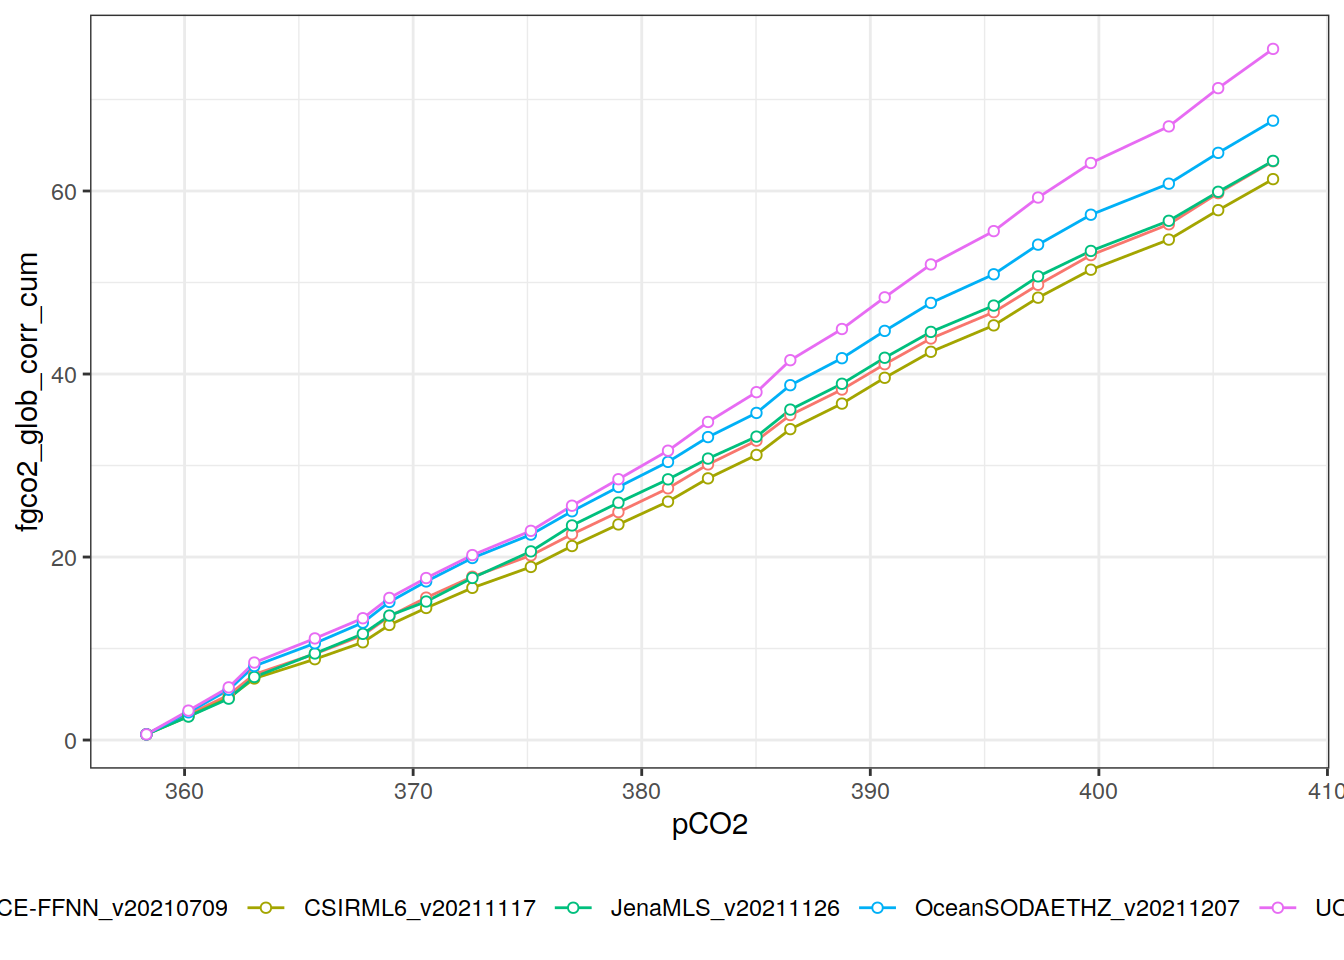
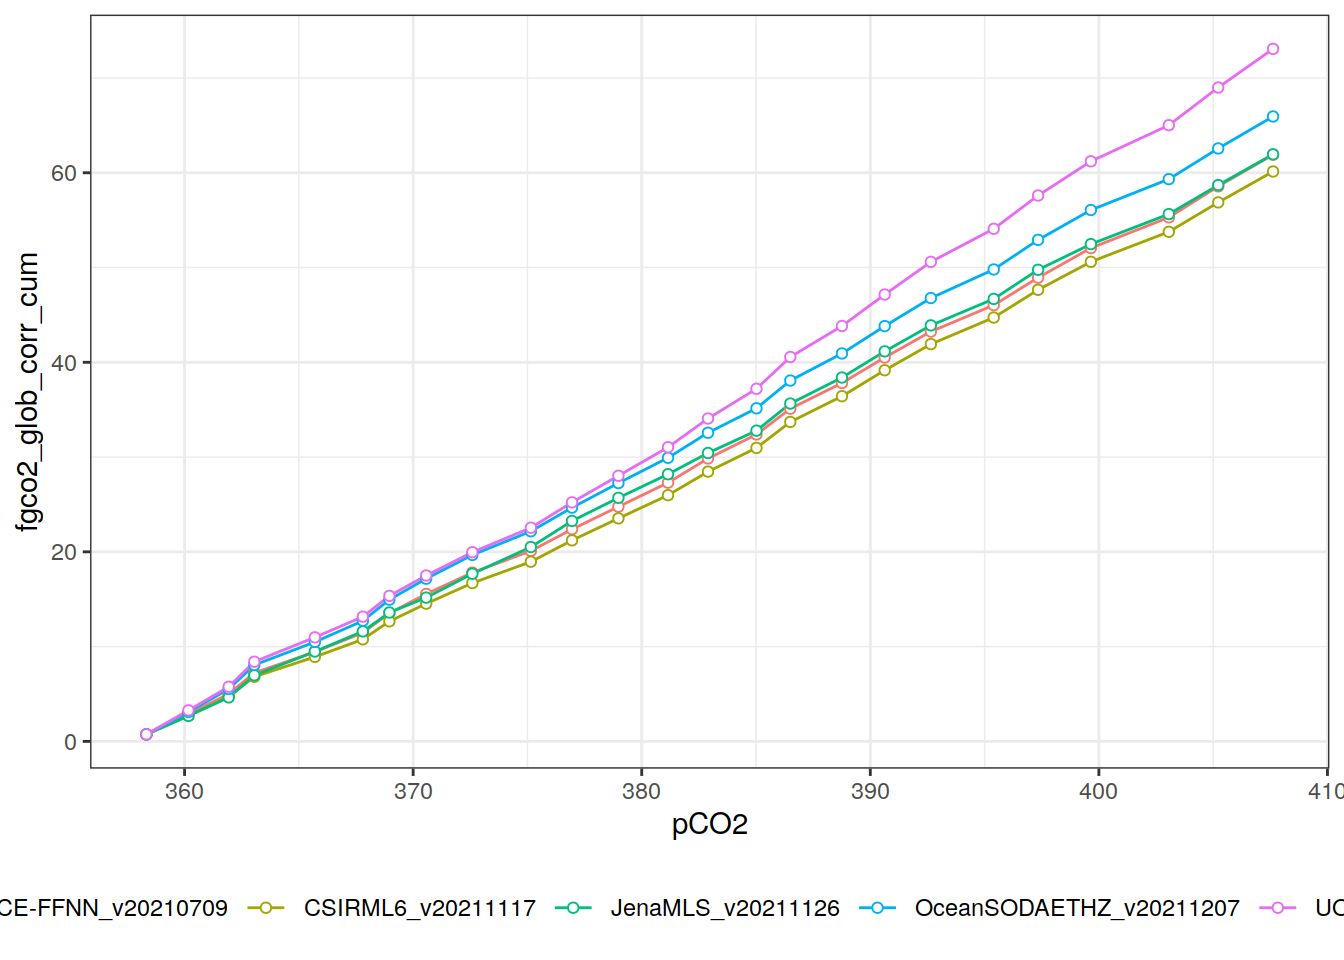
Build site.

diff --git a/docs/results_publication.html b/docs/results_publication.html
@@ -673,16 +673,16 @@ This reproducible <a href="https://rmarkdown.rstudio.com">R Markdown</a> analysi
 <div class="panel panel-default">
 <div class="panel-heading">
 <p class="panel-title">
-<a data-toggle="collapse" data-parent="#workflowr-checks" href="#strongRepositoryversionstrongahrefhttpsgithubcomjensdanielmuelleremlrobsanalysistree2394302264188228ec5f9f6eb82c25fc82671867targetblank2394302a"> <span class="glyphicon glyphicon-ok text-success" aria-hidden="true"></span> <strong>Repository version:</strong> <a href="https://github.com/jens-daniel-mueller/emlr_obs_analysis/tree/2394302264188228ec5f9f6eb82c25fc82671867" target="_blank">2394302</a> </a>
+<a data-toggle="collapse" data-parent="#workflowr-checks" href="#strongRepositoryversionstrongahrefhttpsgithubcomjensdanielmuelleremlrobsanalysistree5420131a3065e77491b46b9e6a64ab83faa2ded4targetblank5420131a"> <span class="glyphicon glyphicon-ok text-success" aria-hidden="true"></span> <strong>Repository version:</strong> <a href="https://github.com/jens-daniel-mueller/emlr_obs_analysis/tree/5420131a3065e77491b46b9e6a64ab83faa2ded4" target="_blank">5420131</a> </a>
 </p>
 </div>
[2 lines of base64/hex data omitted]
 <div class="panel-body">
 <p>
 Great! You are using Git for version control. Tracking code development and connecting the code version to the results is critical for reproducibility.
 </p>
 <p>
-The results in this page were generated with repository version <a href="https://github.com/jens-daniel-mueller/emlr_obs_analysis/tree/2394302264188228ec5f9f6eb82c25fc82671867" target="_blank">2394302</a>. See the <em>Past versions</em> tab to see a history of the changes made to the R Markdown and HTML files.
+The results in this page were generated with repository version <a href="https://github.com/jens-daniel-mueller/emlr_obs_analysis/tree/5420131a3065e77491b46b9e6a64ab83faa2ded4" target="_blank">5420131</a>. See the <em>Past versions</em> tab to see a history of the changes made to the R Markdown and HTML files.
 </p>
 <p>
 Note that you need to be careful to ensure that all relevant files for the analysis have been committed to Git prior to generating the results (you can use <code>wflow_publish</code> or <code>wflow_git_commit</code>). workflowr only checks the R Markdown file, but you know if there are other scripts or data files that it depends on. Below is the status of the Git repository when the results were generated:
@@ -732,6 +732,40 @@ Message
 </tr>
 </thead>
 <tbody>
+<tr>
+<td>
+Rmd
+</td>
+<td>
+<a href="https://github.com/jens-daniel-mueller/emlr_obs_analysis/blob/5420131a3065e77491b46b9e6a64ab83faa2ded4/analysis/results_publication.Rmd" target="_blank">5420131</a>
+</td>
+<td>
+jens-daniel-mueller
+</td>
+<td>
+2022-02-17
+</td>
+<td>
+added Seaflux data
+</td>
+</tr>
+<tr>
+<td>
+html
+</td>
+<td>
+<a href="https://rawcdn.githack.com/jens-daniel-mueller/emlr_obs_analysis/192504c2078f236cf7eb403ff1f21b27900670a0/docs/results_publication.html" target="_blank">192504c</a>
+</td>
+<td>
+jens-daniel-mueller
+</td>
+<td>
+2022-02-17
+</td>
+<td>
+Build site.
+</td>
+</tr>
 <tr>
 <td>
 Rmd
@@ -7857,7 +7891,7 @@ jens-daniel-mueller
 <pre class="r"><code>RECCAP2_fgco2_glob_all_annual_cum_1994 &lt;- RECCAP2_fgco2_glob_all_annual_obs %&gt;%
   filter(year &gt;= 1994, year &lt;= 2018) %&gt;%
   mutate(fgco2_glob = if_else(year == 1994, 0, fgco2_glob),
-         fgco2_glob_corr = 1.1*fgco2_glob + 0.62) %&gt;% 
+         fgco2_glob_corr = fgco2_glob + 0.62 + 0.12) %&gt;% 
   arrange(year) %&gt;%
   group_by(product) %&gt;%
   mutate(fgco2_glob_cum = cumsum(fgco2_glob),
@@ -7874,6 +7908,43 @@ RECCAP2_fgco2_glob_all_annual_cum_1994 %&gt;%
   geom_point(shape = 21, fill = &quot;white&quot;) +
   theme(legend.position = &quot;bottom&quot;)</code></pre>
 <p><img src="figure/results_publication.Rmd/RECCAP2_fluxes-1.png" width="672" style="display: block; margin: auto;" /></p>
+<p>
+<button type="button" class="btn btn-default btn-xs btn-workflowr btn-workflowr-fig" data-toggle="collapse" data-target="#fig-RECCAP2_fluxes-1">
+Past versions of RECCAP2_fluxes-1.png
+</button>
+</p>
+<div id="fig-RECCAP2_fluxes-1" class="collapse">
+<div class="table-responsive">
+<table class="table table-condensed table-hover">
+<thead>
+<tr>
+<th>
+Version
+</th>
+<th>
+Author
+</th>
+<th>
+Date
+</th>
+</tr>
+</thead>
+<tbody>
+<tr>
+<td>
+<a href="https://github.com/jens-daniel-mueller/emlr_obs_analysis/blob/192504c2078f236cf7eb403ff1f21b27900670a0/docs/figure/results_publication.Rmd/RECCAP2_fluxes-1.png" target="_blank">192504c</a>
+</td>
+<td>
+jens-daniel-mueller
+</td>
+<td>
+2022-02-17
+</td>
+</tr>
+</tbody>
+</table>
+</div>
+</div>
 <pre class="r"><code>RECCAP2_fgco2_glob_all_annual_cum_1994_mod &lt;- RECCAP2_fgco2_glob_all_annual_mod %&gt;%
   filter(year &gt;= 1994, year &lt;= 2018) %&gt;%
   mutate(fgco2_glob = if_else(year == 1994, 0, fgco2_glob),
@@ -7894,6 +7965,43 @@ RECCAP2_fgco2_glob_all_annual_cum_1994_mod %&gt;%
   geom_point(shape = 21, fill = &quot;white&quot;) +
   theme(legend.position = &quot;bottom&quot;)</code></pre>
 <p><img src="figure/results_publication.Rmd/RECCAP2_fluxes-2.png" width="672" style="display: block; margin: auto;" /></p>
+<p>
+<button type="button" class="btn btn-default btn-xs btn-workflowr btn-workflowr-fig" data-toggle="collapse" data-target="#fig-RECCAP2_fluxes-2">
+Past versions of RECCAP2_fluxes-2.png
+</button>
+</p>
+<div id="fig-RECCAP2_fluxes-2" class="collapse">
+<div class="table-responsive">
+<table class="table table-condensed table-hover">
+<thead>
+<tr>
+<th>
+Version
+</th>
+<th>
+Author
+</th>
+<th>
+Date
+</th>
+</tr>
+</thead>
+<tbody>
+<tr>
+<td>
+<a href="https://github.com/jens-daniel-mueller/emlr_obs_analysis/blob/192504c2078f236cf7eb403ff1f21b27900670a0/docs/figure/results_publication.Rmd/RECCAP2_fluxes-2.png" target="_blank">192504c</a>
+</td>
+<td>
+jens-daniel-mueller
+</td>
+<td>
+2022-02-17
+</td>
+</tr>
+</tbody>
+</table>
+</div>
+</div>
 <pre class="r"><code>RECCAP2_fgco2_glob_all_annual_cum_1994 &lt;- RECCAP2_fgco2_glob_all_annual_cum_1994 %&gt;% 
   mutate(fgco2_glob_cum = fgco2_glob_cum + 118,
          fgco2_glob_corr_cum = fgco2_glob_corr_cum + 118) %&gt;%
@@ -7923,6 +8031,43 @@ SeaFlux_fgco2_glob_all_annual_cum_1994 %&gt;%
   geom_point(shape = 21, fill = &quot;white&quot;) +
   theme(legend.position = &quot;bottom&quot;)</code></pre>
 <p><img src="figure/results_publication.Rmd/SeaFlux_fluxes-1.png" width="672" style="display: block; margin: auto;" /></p>
+<p>
+<button type="button" class="btn btn-default btn-xs btn-workflowr btn-workflowr-fig" data-toggle="collapse" data-target="#fig-SeaFlux_fluxes-1">
+Past versions of SeaFlux_fluxes-1.png
+</button>
+</p>
+<div id="fig-SeaFlux_fluxes-1" class="collapse">
+<div class="table-responsive">
+<table class="table table-condensed table-hover">
+<thead>
+<tr>
+<th>
+Version
+</th>
+<th>
+Author
+</th>
+<th>
+Date
+</th>
+</tr>
+</thead>
+<tbody>
+<tr>
+<td>
+<a href="https://github.com/jens-daniel-mueller/emlr_obs_analysis/blob/192504c2078f236cf7eb403ff1f21b27900670a0/docs/figure/results_publication.Rmd/SeaFlux_fluxes-1.png" target="_blank">192504c</a>
+</td>
+<td>
+jens-daniel-mueller
+</td>
+<td>
+2022-02-17
+</td>
+</tr>
+</tbody>
+</table>
+</div>
+</div>
 <pre class="r"><code>SeaFlux_fgco2_glob_all_annual_cum_1994 &lt;- SeaFlux_fgco2_glob_all_annual_cum_1994 %&gt;% 
   mutate(fgco2_glob_cum = fgco2_glob_cum + 118,
          fgco2_glob_corr_cum = fgco2_glob_corr_cum + 118) %&gt;%
@@ -7995,6 +8140,17 @@ Date
 </tr>
 </thead>
 <tbody>
+<tr>
+<td>
+<a href="https://github.com/jens-daniel-mueller/emlr_obs_analysis/blob/192504c2078f236cf7eb403ff1f21b27900670a0/docs/figure/results_publication.Rmd/mean_tcant_over_atm_co2_incl_fluxes-1.png" target="_blank">192504c</a>
+</td>
+<td>
+jens-daniel-mueller
+</td>
+<td>
+2022-02-17
+</td>
+</tr>
 <tr>
 <td>
 <a href="https://github.com/jens-daniel-mueller/emlr_obs_analysis/blob/d2191adf7ee8c190568a83d969cd508b68cd18ae/docs/figure/results_publication.Rmd/mean_tcant_over_atm_co2_incl_fluxes-1.png" target="_blank">d2191ad</a>
